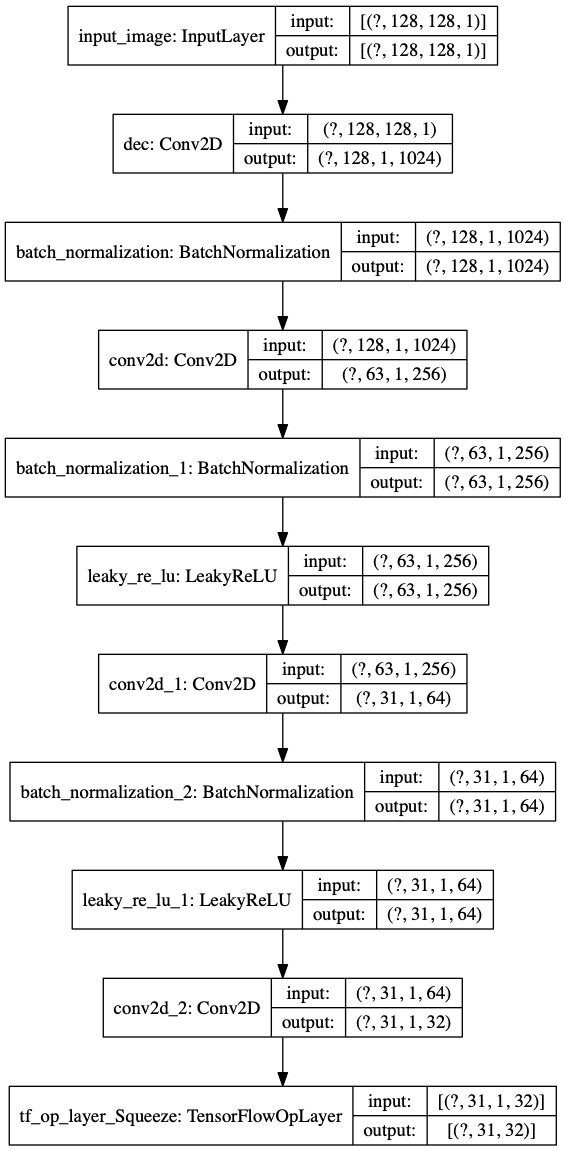
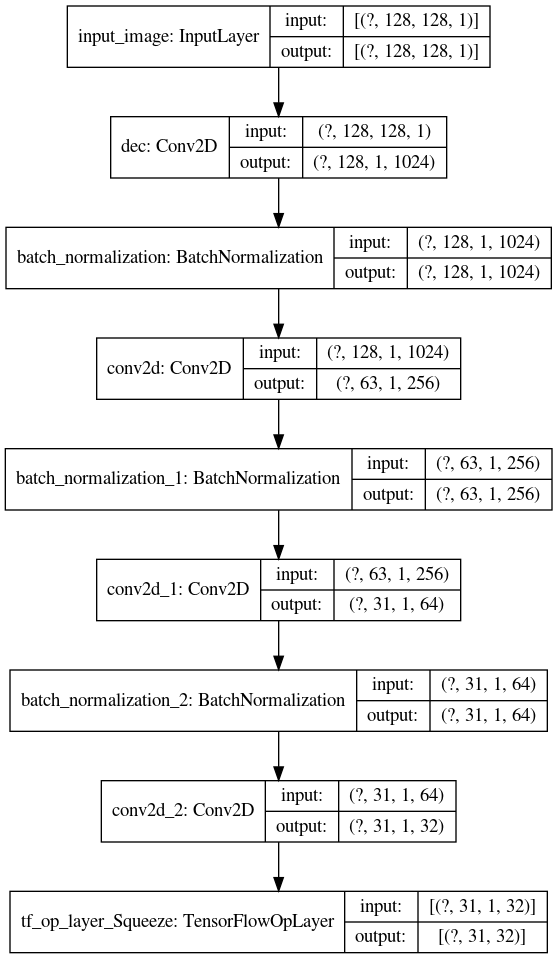
update

Changed region(s): [[0.0, 0.0, 1.0, 0.9979]]

diff --git a/model.py b/model.py
@@ -239,7 +239,7 @@ def make_discriminator_model(len_low_size=16, scale=4):
     initializer = tf.random_normal_initializer(0., 0.02)
     inp = tf.keras.layers.Input(shape=[len_high_size, len_high_size, 1], name='input_image')
     dec = tf.keras.layers.Conv2D(1024, [1, len_high_size], strides=1, padding='valid', data_format="channels_last", 
-                                    activation='relu', use_bias=False,
+                                    use_bias=True,
                                     kernel_initializer=initializer, 
                                     name='dec')(inp)
     batchnorm = tf.keras.layers.BatchNormalization()(dec)
@@ -249,16 +249,16 @@ def make_discriminator_model(len_low_size=16, scale=4):
                                     kernel_initializer=initializer, 
                                     )(batchnorm)
     batchnorm = tf.keras.layers.BatchNormalization()(conv)
-    leaky_relu = tf.keras.layers.LeakyReLU()(batchnorm)
+    #leaky_relu = tf.keras.layers.LeakyReLU()(batchnorm)
 
     conv = tf.keras.layers.Conv2D(64, [3, 1], strides=2, padding='valid', data_format="channels_last", 
                                     activation=None, use_bias=True,
                                     kernel_initializer=initializer, 
-                                    )(leaky_relu)
+                                    )(batchnorm)
     batchnorm = tf.keras.layers.BatchNormalization()(conv)
-    leaky_relu = tf.keras.layers.LeakyReLU()(batchnorm)
+    #leaky_relu = tf.keras.layers.LeakyReLU()(batchnorm)
 
-    last = tf.keras.layers.Conv2D(32, 1, strides=1, padding='valid', kernel_initializer=initializer)(leaky_relu)
+    last = tf.keras.layers.Conv2D(32, 1, strides=1, padding='valid', kernel_initializer=initializer)(batchnorm)
     last = tf.squeeze(last, axis=2)
     return tf.keras.Model(inputs=inp, outputs=last)
 
@@ -425,11 +425,12 @@ def train(gen, dis, dataset, epochs, len_low_size, scale, test_dataset=None):
     for epoch in range(epochs):
         start = time.time()
         for i, (low_m, high_m) in enumerate(dataset):
-            train_step_generator(gen, dis, 
-                                tf.dtypes.cast(low_m, tf.float32), tf.dtypes.cast(high_m, tf.float32),
-                                [loss_filter_low, loss_filter_high],
-                                opts, logs)
-            if(epoch > 10 and (epoch%3==1)):
+            if(epoch%20<10):
+                train_step_generator(gen, dis, 
+                                    tf.dtypes.cast(low_m, tf.float32), tf.dtypes.cast(high_m, tf.float32),
+                                    [loss_filter_low, loss_filter_high],
+                                    opts, logs)
+            if(epoch%30>15):
                 train_step_discriminator(gen, dis, 
                                 tf.dtypes.cast(low_m, tf.float32), tf.dtypes.cast(high_m, tf.float32),
                                 [loss_filter_low, loss_filter_high],
